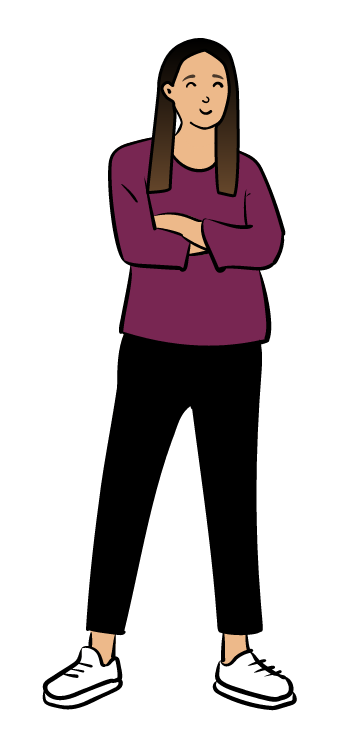
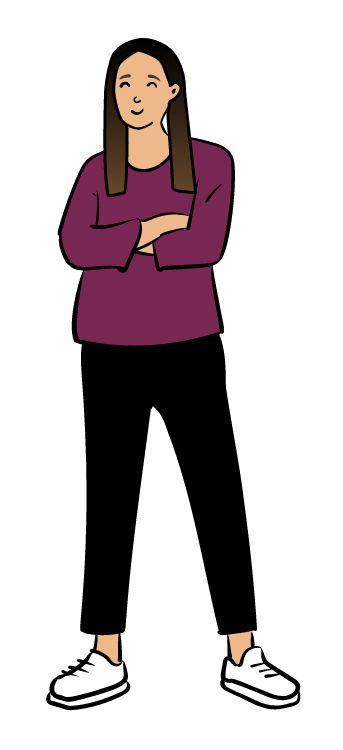
revamped welcome page with illustration

Changed region(s): [[0.1166, 0.0307, 0.8746, 0.9507]]

diff --git a/index.html b/index.html
@@ -2,34 +2,15 @@
 layout: default
 title: Erica Yee
 ---
-<div class="blurb">
-	<h1>Hello there!</h1>
-	<p class="top"><em>who</em></p>
-	<ul class="bottom">
-		<li>Erica Yee</li>
-		<li>Coder, writer, aspiring designer, news nerd & enthusiast</li>
-	</ul>
-
-	<p class="top">what</p>
-	<ul class="bottom">
-		<li>Journalism and information science student at Northeastern University</li>
-		<li>Looking for a full-time newsroom position in data journalism, news interactives and graphics, and/or newsroom tools development (starting June 2020)</li>
-	</ul>
-
-	<p class="top">where</p>
-	<ul class="bottom">
-		<li>Sometimes Oakland, sometimes Boston</li>
-		<li>Possibly your company? Please <a href="mailto:yee.erica.e@gmail.com">reach out</a> if you're interested in what I can bring to your newsroom!</li>
-	</ul>
-
-	<p class="top">what I like (beside lists)</p>
-	<ul class="bottom">
-	  	<li>Bay Area sports and food</li>
-	  	<li>Asian American media</li>
-  	  	<li>Collecting library cards</li>
-		<li><a href="https://musescore.com/user/158711" target="_blank">Arranging music</a></li>
-	  	<li><a href="https://lists.pocketcasts.com/083c634f-c8a6-4362-8330-553859a6b3e3" target="_blank">Podcasts</a></li>
-			<li><a href="http://jasna.org/publications/essay-contest-winning-entries/2015/austen-in-transition/" target="_blank">Jane Austen</a></li>
-	</ul>
-
+<div class="welcome-flex-parent">
+	<div class="welcome-flex-child">
+		<img id="welcome-image" src="files/illustration_sitting.png" alt="illustration of Erica Yee" />
+	</div>
+	<div class="welcome-flex-child">
+		<h1>Hello there!</h1>
+		<p>I'm <b>Erica Yee</b>, a coder, writer, aspiring designer, news nerd & enthusiast.</p>
+		<p>I'm currently looking for a full-time newsroom position in data journalism, news interactives and graphics, and/or newsroom tools development.</p>
+		<p>Please take a look at my portfolio, and reach out if you're interested in what I can bring to your newsroom!</p>
+		<p><i>yee.erica.e (at) gmail (dot) com</i></p>
+	</div>
 </div>

diff --git a/css/main.css b/css/main.css
@@ -1,6 +1,6 @@
 body {
     margin: 20px auto;
-    width: 70%;
+    width: 50%;
     font-family:'Roboto', sans-serif;
 
 }
@@ -110,6 +110,20 @@ figcaption {
 
 .med-pic {
   max-width: 500px;
+}
+
+.welcome-flex-parent {
+  margin-bottom: 20px;
+  display: flex;
+  flex-flow: row wrap;
+}
+
+.welcome-flex-child {
+
+}
+
+#welcome-image {
+  width: 300px;
 }
 
 .less-bot-marg {
